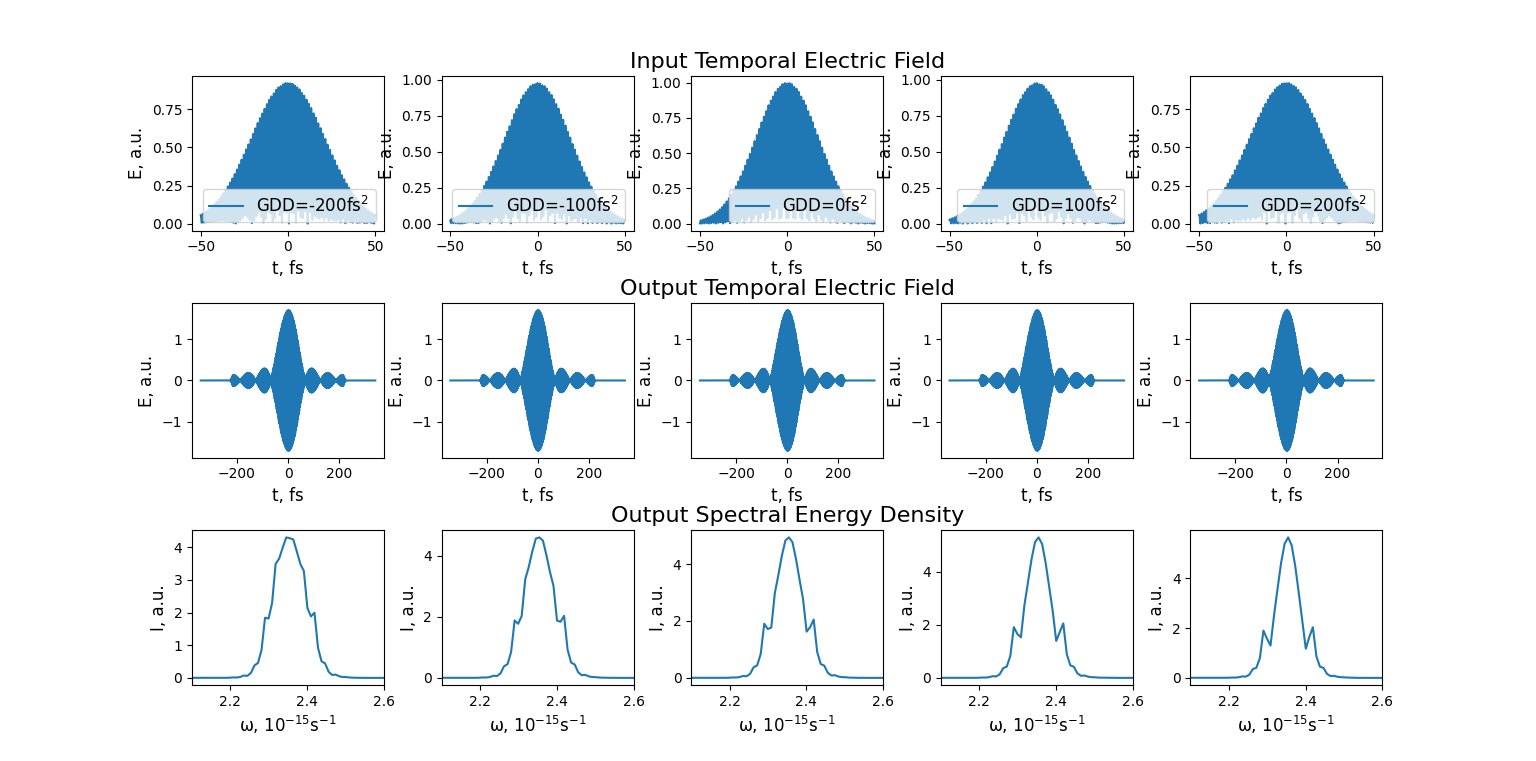
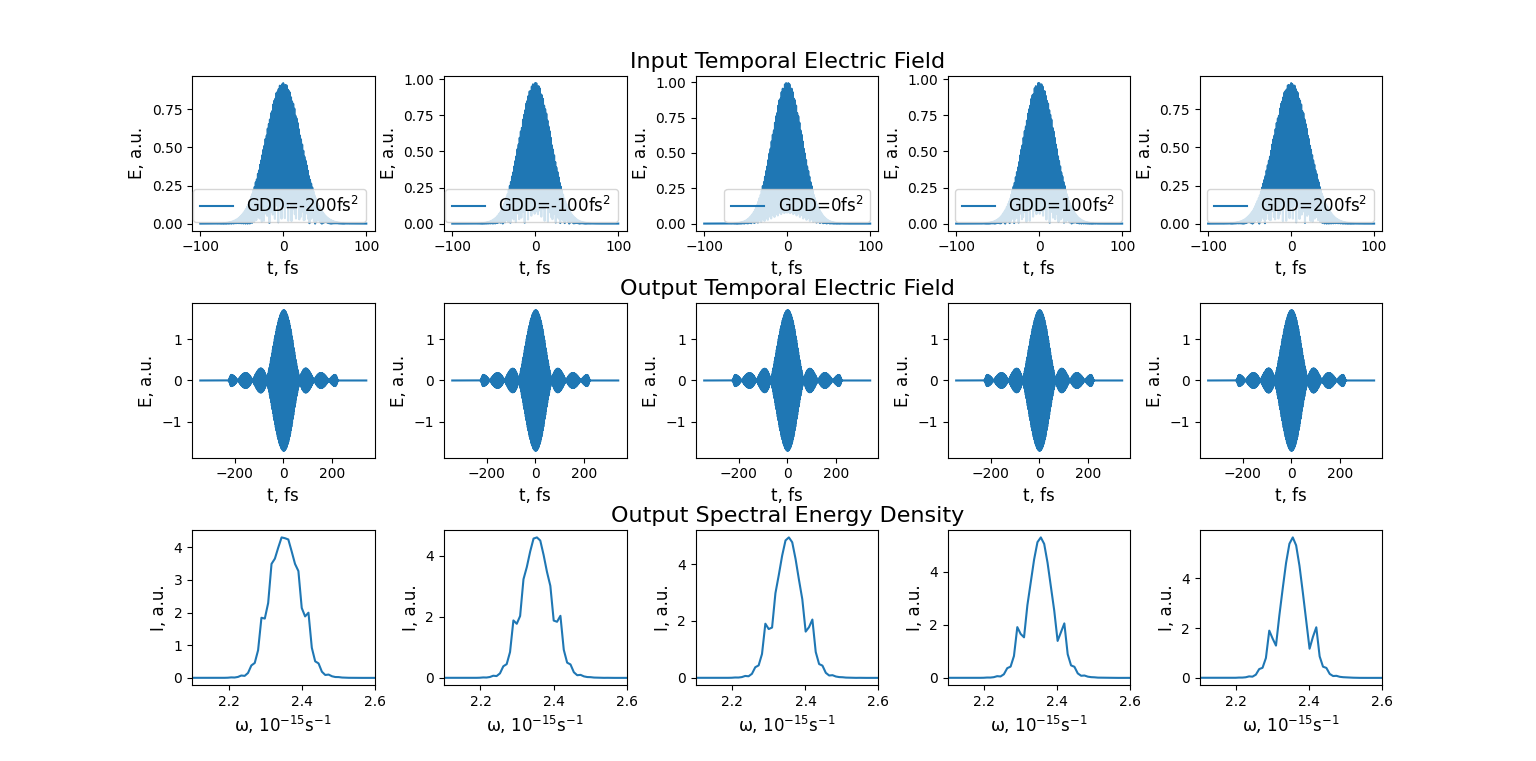
plotted GDD effects

diff --git a/HCF sim/Python/experiments/simulations/GDD_effect/effect_of_GDD.py b/HCF sim/Python/experiments/simulations/GDD_effect/effect_of_GDD.py
@@ -26,7 +26,7 @@ sys.path.append('C:\\Users\\ML\\OneDrive - Imperial College London\\MSci_Project
 from rms_width import *
 c = 299792458 # m/s
 n=5
-gdd_step=400e-30 #in fs^2
+gdd_step=200e-30 #in fs^2
 gdd_mid=0
 GDDs=[gdd_mid-2*gdd_step,gdd_mid-gdd_step,gdd_mid,gdd_mid+gdd_step,gdd_mid+2*gdd_step]
 
@@ -48,13 +48,13 @@ Main.λ0 = wavel
 Main.energy=energy
 
 def fwhm_to_sigma(fwhm, power=2):
-    return fwhm / (2 * (2 * np.log10(2))**(1 / power))
+    return fwhm / (2 * (2 * np.log(2))**(1 / power))
 
 def Gauss(x,x0,sigma,power=2):
     return np.exp(-1/2 * ((x-x0)/sigma)**power)
 
 fwhm_duration=30e-15#30fs fwhm duration input pulse
-t=np.linspace(-50e-15,50e-15,1000)
+t=np.linspace(-100e-15,100e-15,1000)
 t0=0
 zero_GDD_shape=Gauss(t,t0,fwhm_to_sigma(fwhm_duration))
 
@@ -121,7 +121,7 @@ left  = 0.125  # the left side of the subplots of the figure
 right = 0.9    # the right side of the subplots of the figure
 bottom = 0.1   # the bottom of the subplots of the figure
 top = 0.9      # the top of the subplots of the figure
-wspace = 0.3   # the amount of width reserved for blank space between subplots
+wspace = 0.38   # the amount of width reserved for blank space between subplots
 hspace = 0.47   # the amount of height reserved for white space between subplots
 
 plt.subplots_adjust(left, bottom, right, top, wspace, hspace)
